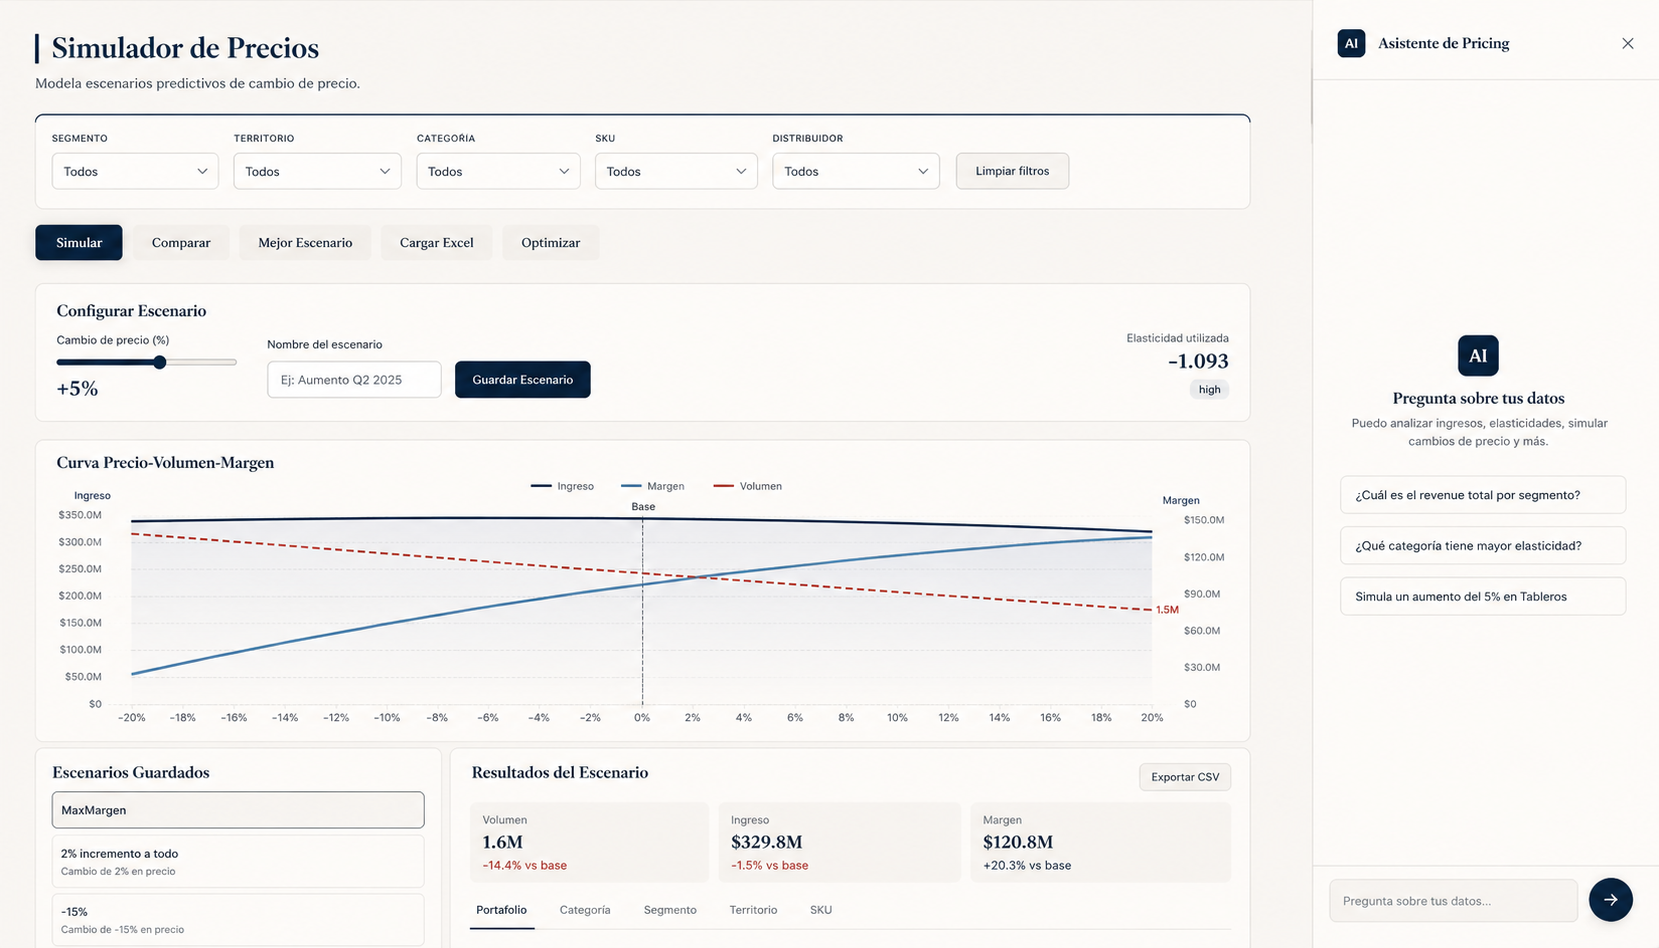
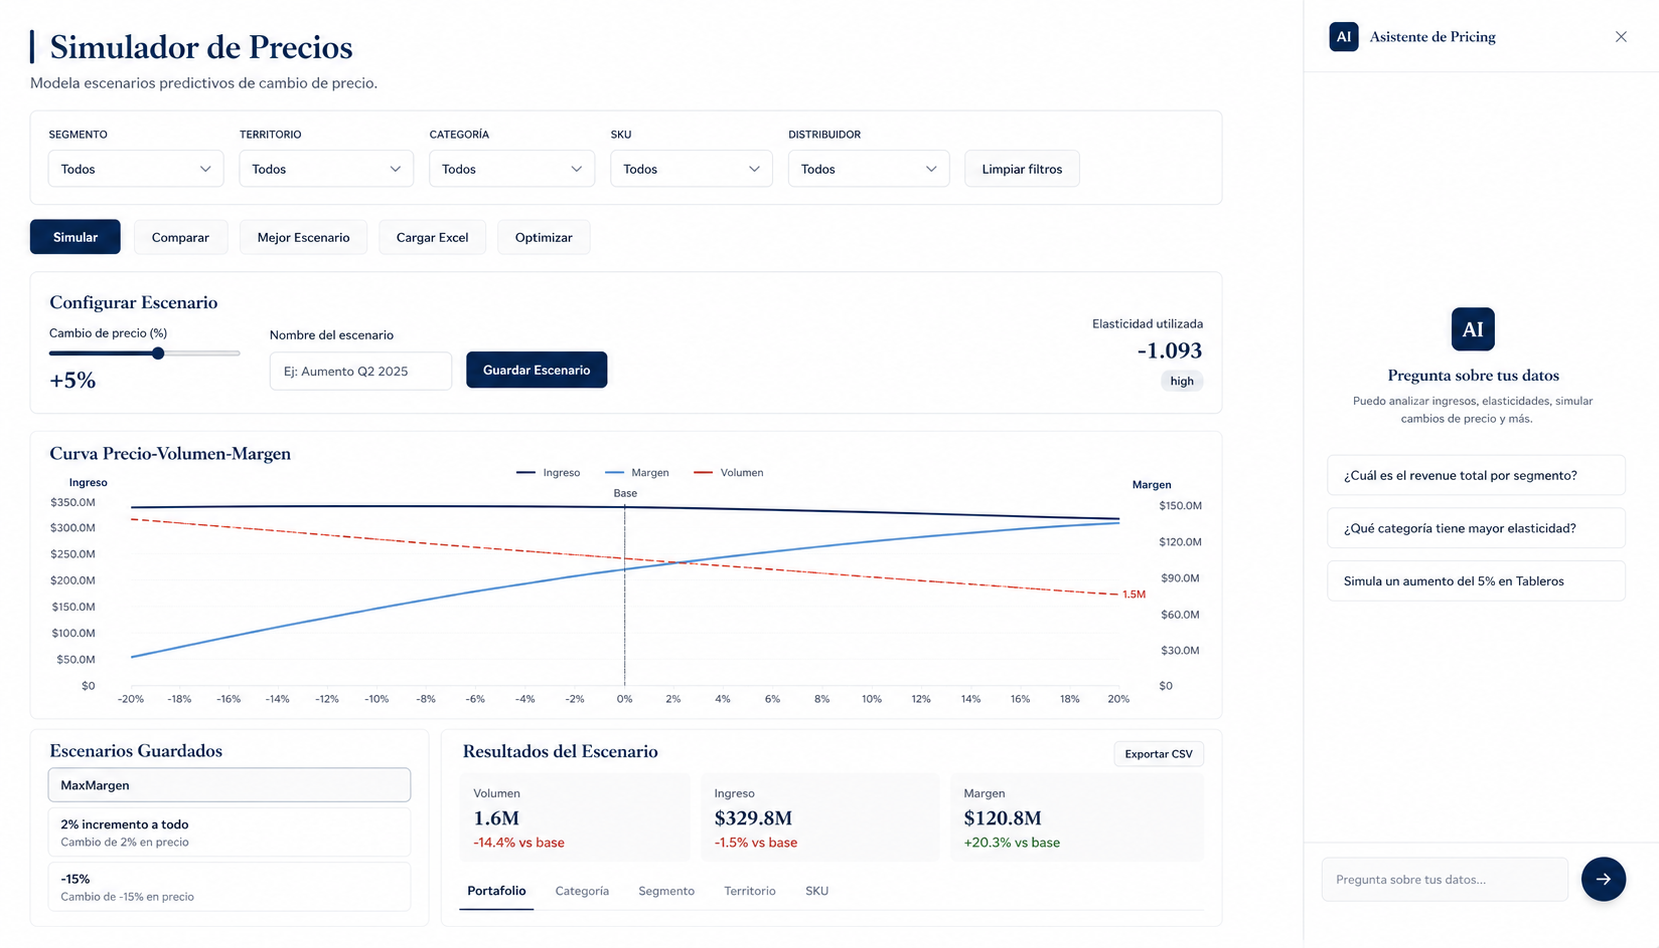
update

diff --git a/how-it-works.html b/how-it-works.html
@@ -391,12 +391,10 @@
         <img src="assets/arm-b-simulator.png" alt="Pricing simulator — scenario modeling interface" loading="lazy"/>
         <figcaption id="b-screenshot-caption">Pricing &amp; scenario modeling interface</figcaption>
       </figure>
-      <div class="screenshot-placeholder">
-        <!-- PLACEHOLDER: Replace this div with <figure class="screenshot-frame"><img src="assets/YOUR-IMAGE.png"...></figure> -->
-        <div class="ph-icon">⊞</div>
-        <p class="ph-label" id="b-ph-label">Product screenshot</p>
-        <p class="ph-note">Replace with <code>&lt;figure class="screenshot-frame"&gt;</code></p>
-      </div>
+      <figure class="screenshot-frame">
+        <img src="assets/client_map.png" alt="Client coverage map" loading="lazy"/>
+        <figcaption id="b-ph-label">Client coverage map</figcaption>
+      </figure>
     </div>
   </div>
 </section>
@@ -706,7 +704,7 @@ const T = {
     b_c7_title: 'Inteligencia Competitiva',           b_c7_body: 'Seguimiento de precios, arquitectura de pack y promociones de la competencia en tiempo real, por canal, región y formato.',
     b_c8_title: 'Estrategia de Canal y RTM',          b_c8_body: 'Priorizamos rutas al mercado por potencial de valor, capacidad de cobertura y coherencia comercial. Desplegamos donde el sistema puede ganar.',
     b_screenshot_caption: 'Interfaz de modelado de precios y escenarios',
-    b_ph_label: 'Captura de pantalla del producto',
+    b_ph_label: 'Mapa de cobertura de clientes',
     // Section C
     c_eyebrow: 'Ejecución y Captura de Valor',
     c_h2: 'Nos quedamos hasta<br>que el valor sea capturado.',
@@ -795,7 +793,7 @@ const T = {
     b_c7_title: 'Inteligência Competitiva',            b_c7_body: 'Acompanhamento de preços, arquitetura de pack e promoções da concorrência em tempo real, por canal, região e formato.',
     b_c8_title: 'Estratégia de Canal e RTM',           b_c8_body: 'Priorizamos rotas ao mercado por potencial de valor, capacidade de cobertura e coerência comercial. Implantamos onde o sistema pode ganhar.',
     b_screenshot_caption: 'Interface de modelagem de preços e cenários',
-    b_ph_label: 'Captura de tela do produto',
+    b_ph_label: 'Mapa de cobertura de clientes',
     // Section C
     c_eyebrow: 'Execução e Captura de Valor',
     c_h2: 'Ficamos até<br>o valor ser capturado.',

diff --git a/index.html b/index.html
@@ -508,7 +508,6 @@ function setLang(lang) {
     nl.innerHTML = `
       <a href="#how-it-works">${t.nav_how}</a>
       <a href="#who">${t.nav_who}</a>
-      <a href="distribuidores.html">${t.nav_dist}</a>
       <a href="how-we-operate.html">${t.nav_operate}</a>`;
   }
 
